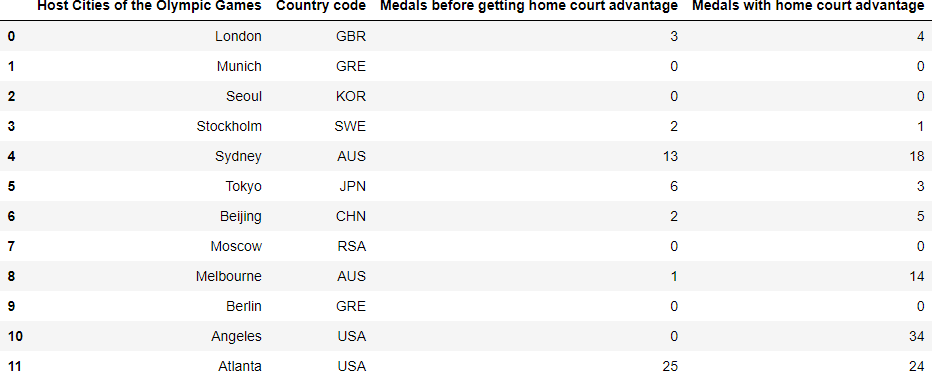
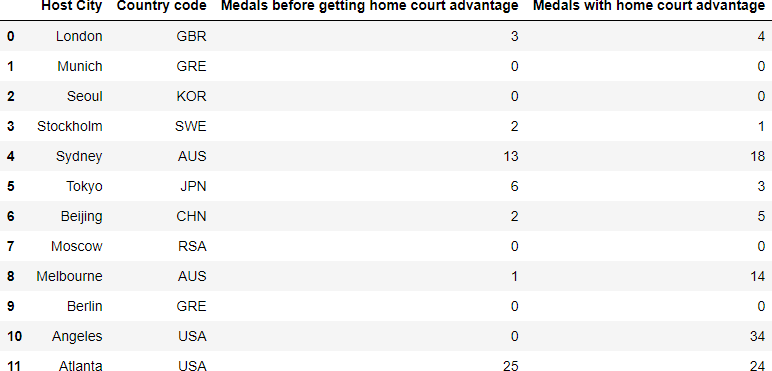
correcting the names of the field

diff --git a/Olympic_games_in_swimming/Olympic_games_question/question_5/home_court_gives_edge.py b/Olympic_games_in_swimming/Olympic_games_question/question_5/home_court_gives_edge.py
@@ -82,7 +82,7 @@ def retrieving_the_number_of_medals_with_home_court_advantage(final_clean_table)
         number_of_medals_before = home_court_data_3_places.shape[0]
         list_number_of_medals_before_home_court_advantage.append(number_of_medals_before)
         print('*')
-    final_table = pd.DataFrame({'Host Cities of the Olympic Games': List_of_best_home_courts,
+    final_table = pd.DataFrame({'Host City': List_of_best_home_courts,
                                 'Country code': List_of_country_code,
                                 'Medals before getting home court advantage': list_number_of_medals_before_home_court_advantage,
                                 'Medals with home court advantage': list_number_of_medals_home_court_advantage})
